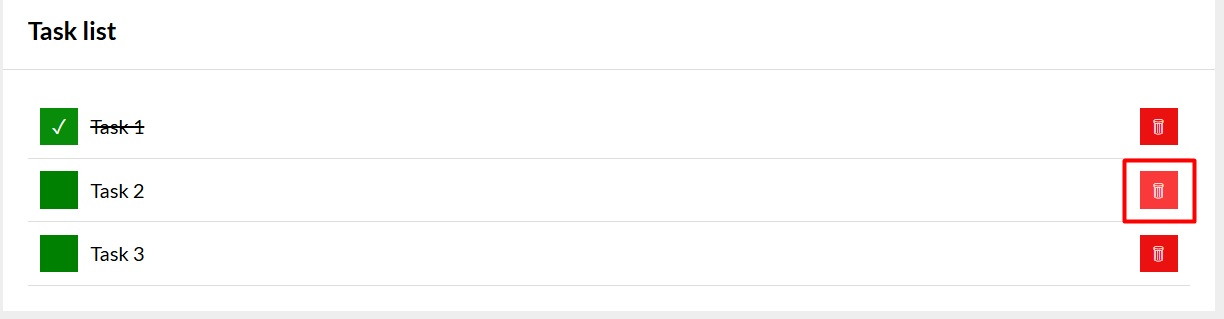
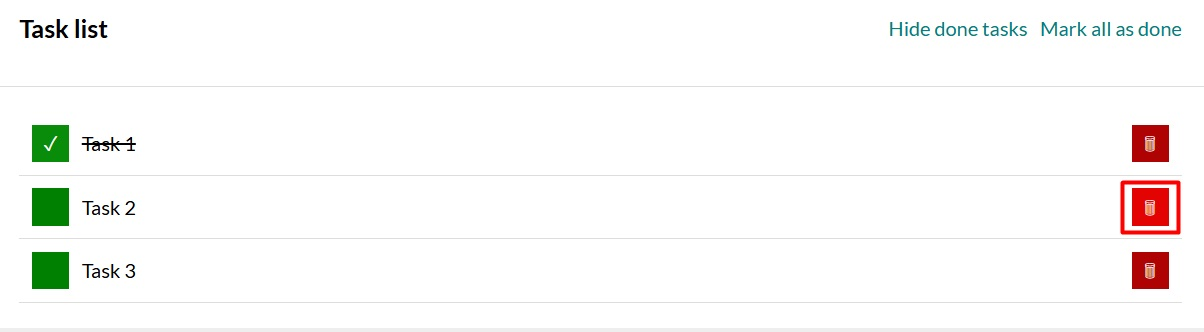
formatted code, changed form button scaling, updated readme, removed unnecessary images

diff --git a/index.html b/index.html
@@ -44,7 +44,7 @@
     </section>
 
     <section class="section">
-        
+
         <header class="section__header">
             <h2 class="section__title">Task list</h2>
             <div class="buttons js-buttons">

diff --git a/css/form.css b/css/form.css
@@ -18,7 +18,7 @@
 }
 
 .form__button:hover {
-    transform: scale(1.15);
+    transform: scale(1.2);
     background-color: hsl(180, 100%, 30%);
 }
 

diff --git a/README.md b/README.md
@@ -18,12 +18,18 @@ Simple web application that allows users to create **To do list** with options t
 3. Task is added to the Task list <div>
 ![New task added to the Task list](images/NewTaskAdded.jpg) </div>
 
-4. Once a task is added, You can mark it as completed or delete it
-
-5. By clicking the green button on the left side, task is marked as done. A checkmark will appear within the green button and the task will be crossed over <div>![Completed task](images/CompletedTask.jpg)</div>
-
-6. By clicking red button with thrash bin icon on the right side, task will be deleted <div>![Delete task button](images/DeleteTask.jpg) </div> <div>
+4. Once a task is added, there are 4 buttons available : <div>
+ ![Task options](images/TaskOptions.jpg) </div>
+    1. Mark task as done - By clicking the green button on the left side, task is marked as done. A checkmark will appear within the green button and the task will be crossed over <div>![Completed task](images/CompletedTask.jpg)</div>
+    2. Delete task - By clicking red button with thrash bin icon on the right side, task will be deleted <div>![Delete task button](images/DeleteTask.jpg) </div> <div>
 ![List after task is deleted](images/TaskDeleted.jpg)</div>
+    3. Hide done tasks - clicking this button will toggle between Hide done tasks and Show done tasks <div>
+    ![Toggle Hide/Show done tasks](images/TaskToggleButton.jpg)
+    4. Mark all tasks as done - Clicking on this button will mark all tasks as completed <div>
+![Mark all tasks as done](images/MarkAllDone.jpg)
+
+Hide done tasks and Mark all as done buttons are not visible in case there are no tasks in the task list. In case all tasks are marked as completed, the Mark all as done button will not be clickable as visible on the screenshot above.
+
 
 ## Additional information
 - Webpage was built using **HTML**, **CSS** and **JavaScript**
@@ -31,6 +37,7 @@ Simple web application that allows users to create **To do list** with options t
 - Code written according to BEM standards
 - Grid layout model was used
 - Page icon was added
-- Additional styles are added to buttons in various states, in order to provide better visual representation for user
+- JS code was refactored from previous app version, immutability applied
+- Additional styles are added to buttons in various states, in order to provide better visual representation for user - buttons also have transform option added
 - @media at-rule was placed so that application is properly and correctly displayed on lower resolution <div>![To do list application - mobile preview](images/MobilePreview.jpg)</div>
 - Added focus to the input field, allowing quicker, easier and more intuitive application usage
